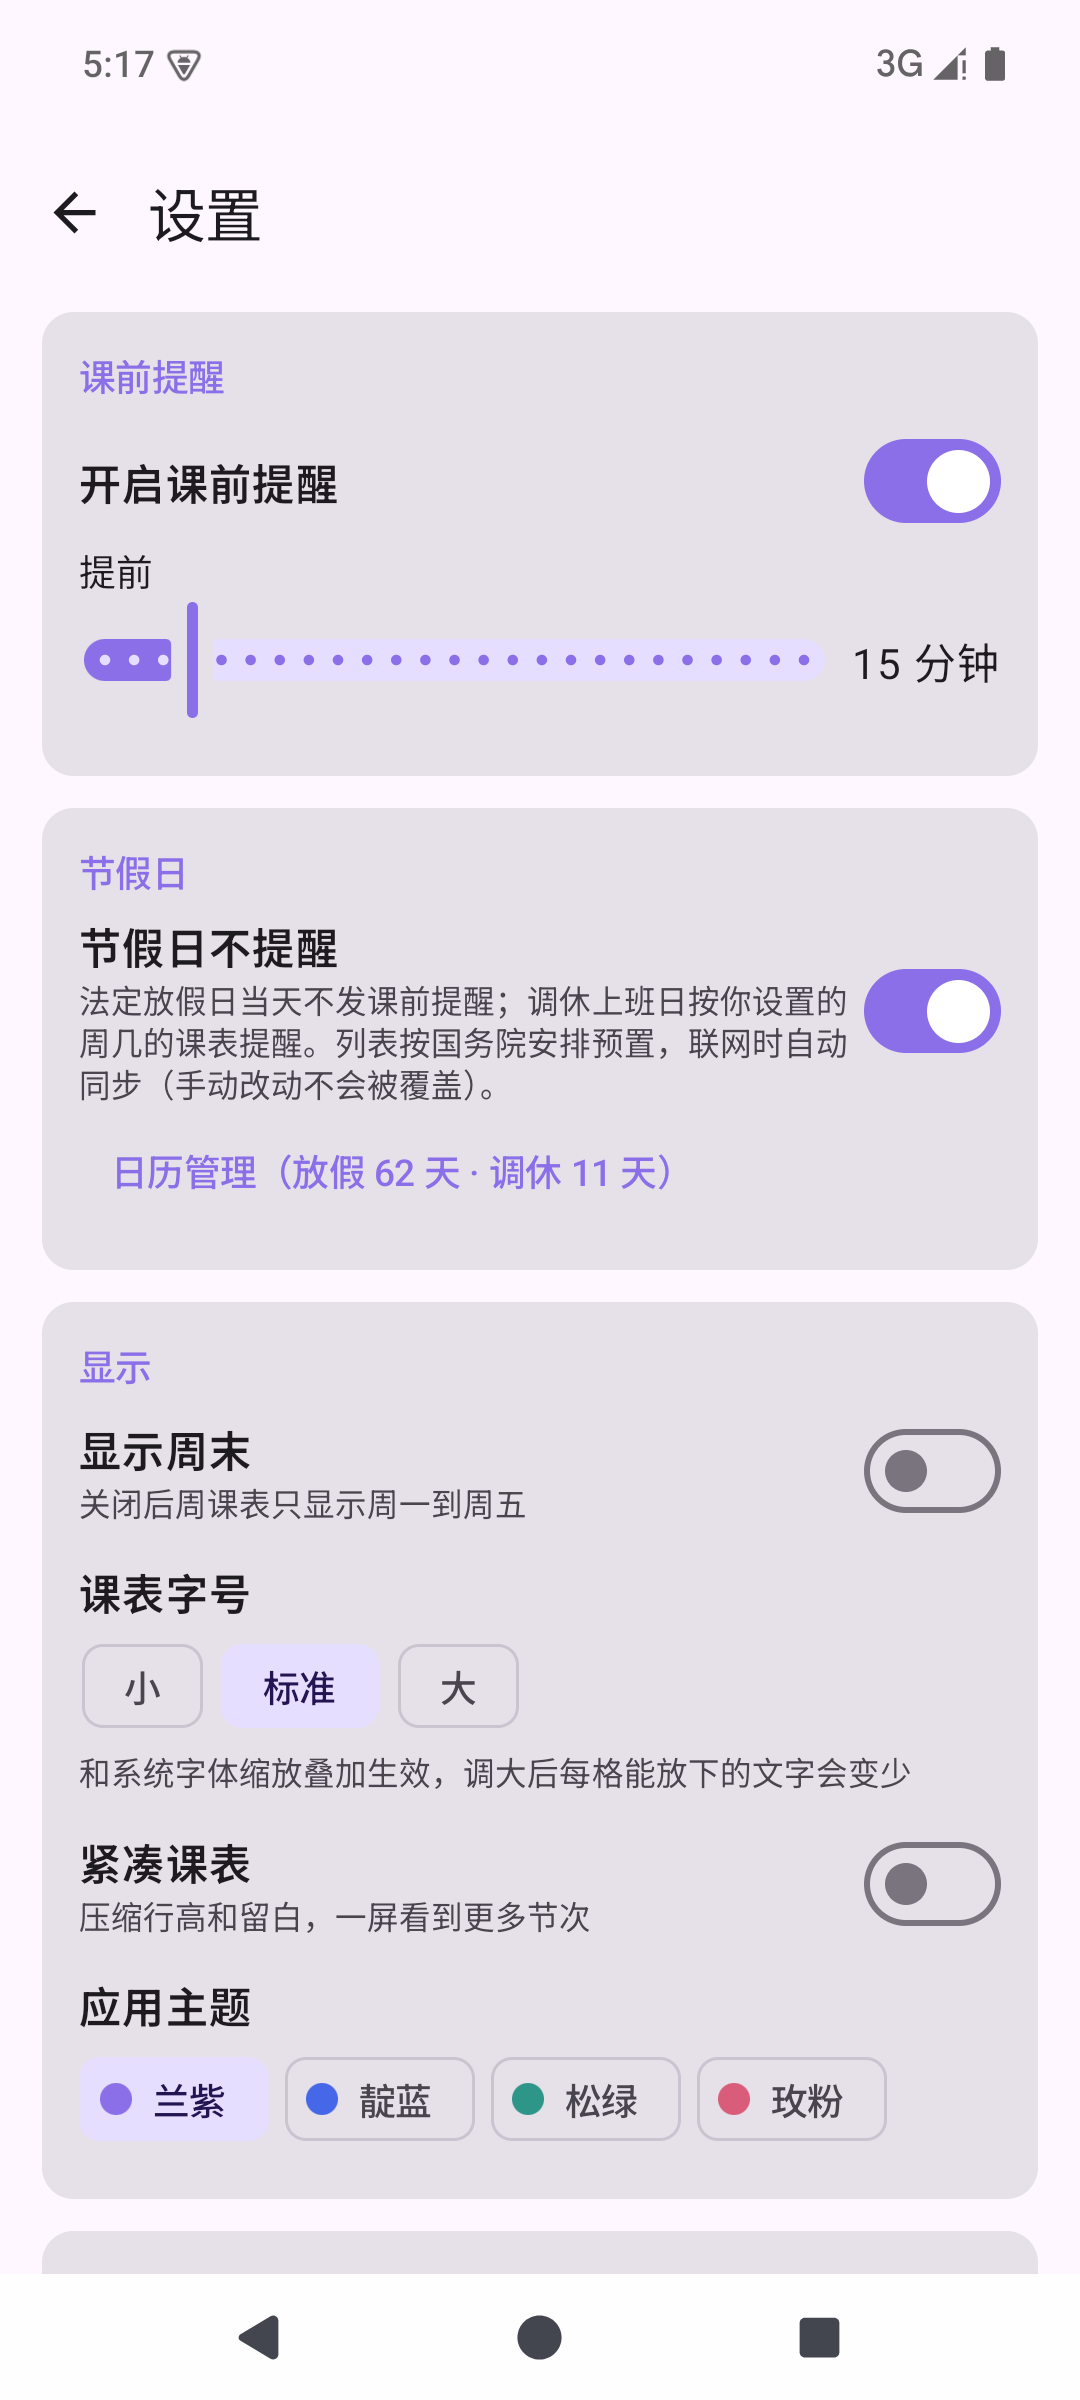
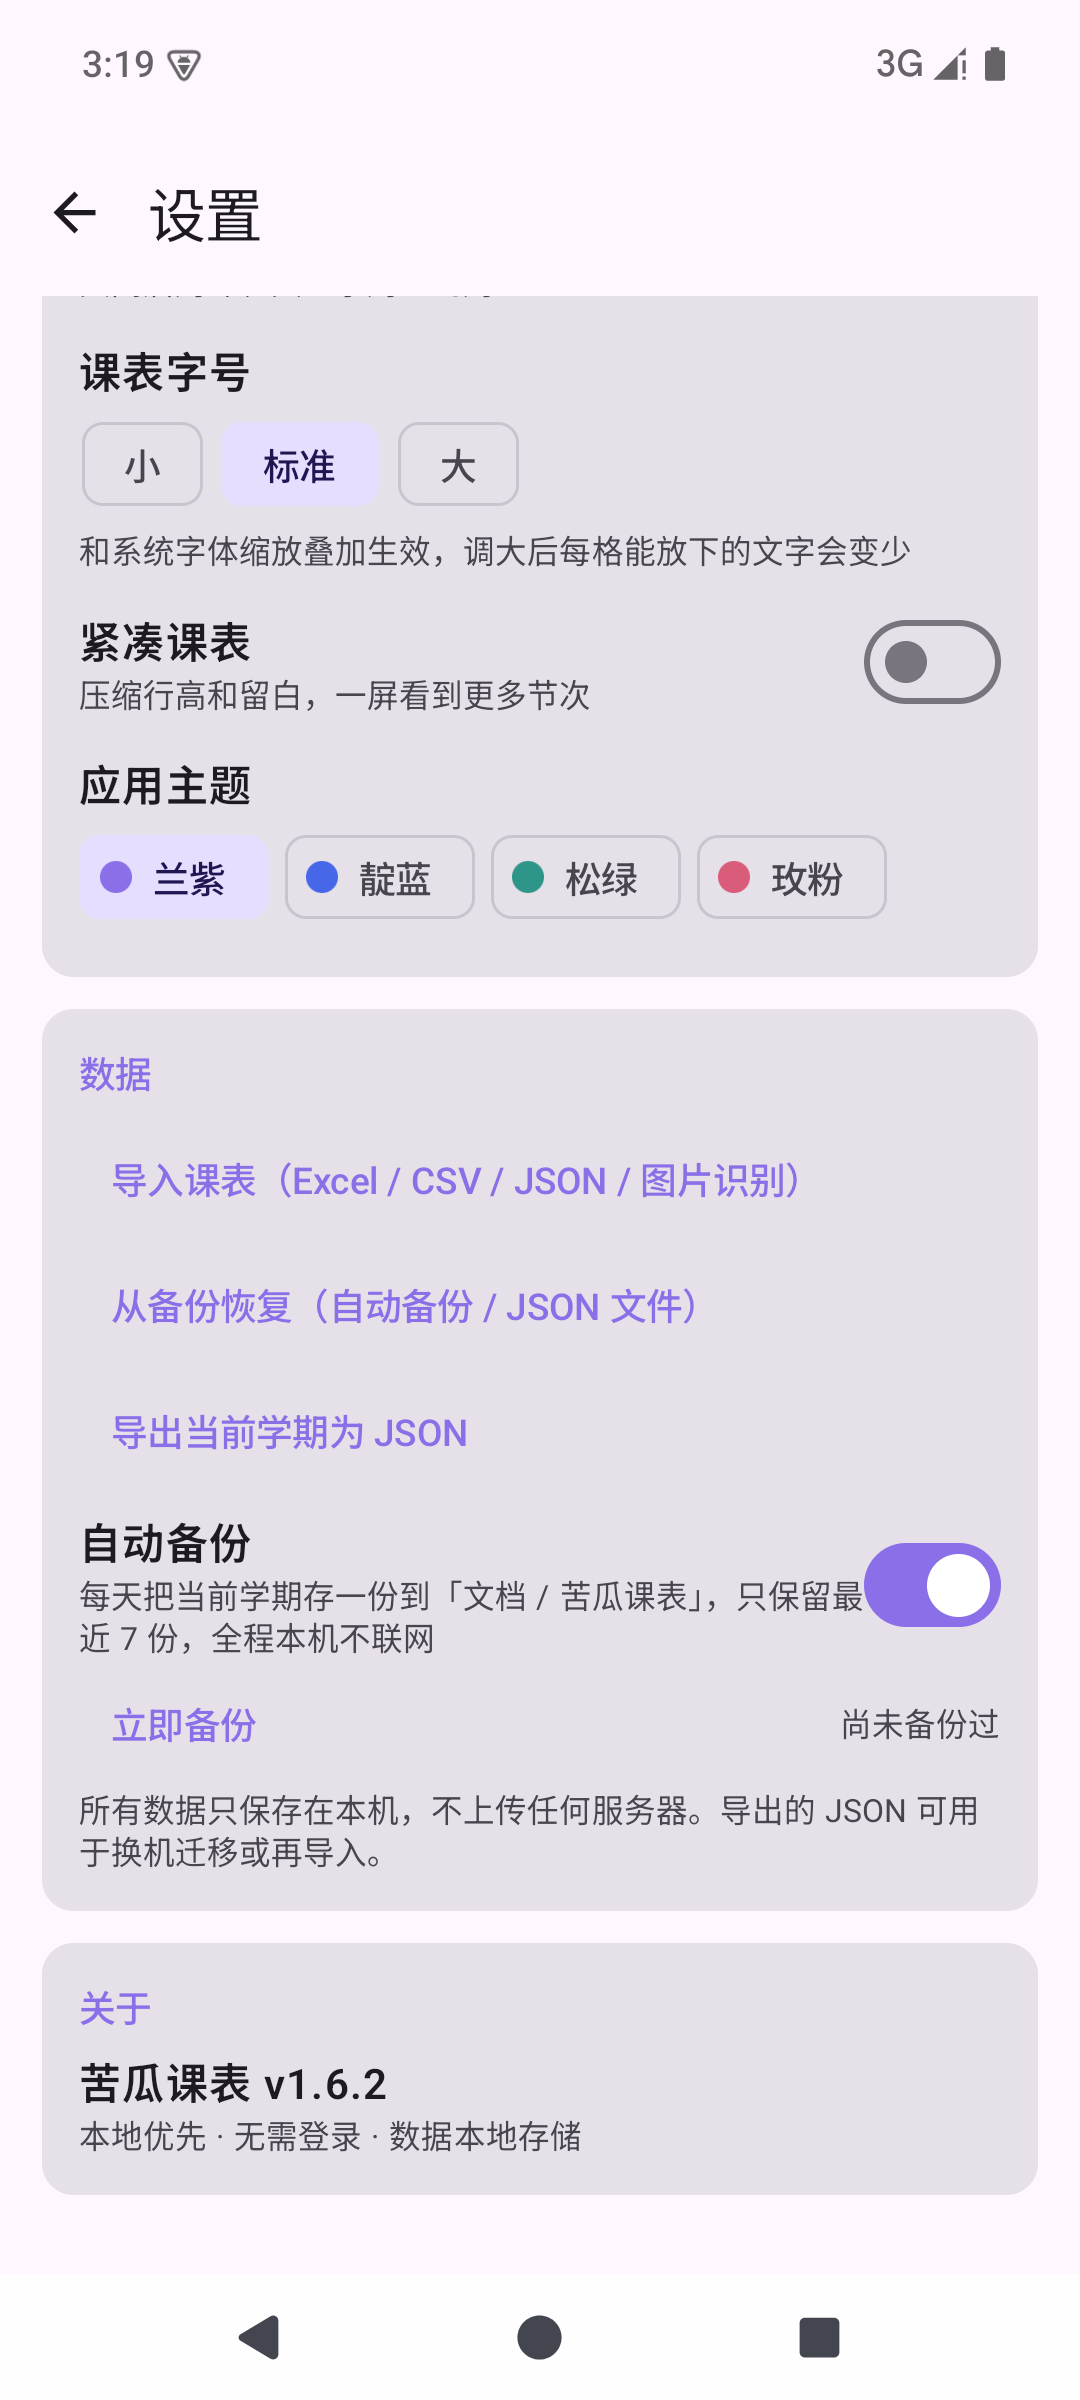
README 截图更新：新增今日视图（上课中高亮+倒计时）实拍，替换周课表/设置为 v1.6 界面实拍（含数据分区与从备份恢复入口）

diff --git a/README.zh-CN.md b/README.zh-CN.md
@@ -23,10 +23,10 @@
 
 <table align="center">
   <tr>
+    <td align="center"><img src="assets/screenshot-today.png" width="200" alt="今日视图" /><br /><sub><b>今日视图</b>（上课中高亮 + 倒计时）</sub></td>
     <td align="center"><img src="assets/screenshot-week-light.png" width="200" alt="周课表视图" /><br /><sub><b>周课表</b>（自动计算周次）</sub></td>
-    <td align="center"><img src="assets/screenshot-week-dark.png" width="200" alt="深色模式" /><br /><sub><b>深色模式</b>（跟随系统）</sub></td>
     <td align="center"><img src="assets/screenshot-course-editor.png" width="200" alt="课程编辑" /><br /><sub><b>课程编辑</b>（任意周次集合）</sub></td>
-    <td align="center"><img src="assets/screenshot-settings.png" width="200" alt="设置" /><br /><sub><b>设置</b>（提醒 / 节假日 / 主题）</sub></td>
+    <td align="center"><img src="assets/screenshot-settings.png" width="200" alt="设置" /><br /><sub><b>设置</b>（提醒 / 节假日 / 主题 / 备份恢复）</sub></td>
   </tr>
 </table>
 

diff --git a/README.md b/README.md
@@ -23,10 +23,10 @@
 
 <table align="center">
   <tr>
+    <td align="center"><img src="assets/screenshot-today.png" width="200" alt="Today view" /><br /><sub><b>Today view</b> (in-progress highlight + countdown)</sub></td>
     <td align="center"><img src="assets/screenshot-week-light.png" width="200" alt="Weekly timetable" /><br /><sub><b>Weekly grid</b> (auto week number)</sub></td>
-    <td align="center"><img src="assets/screenshot-week-dark.png" width="200" alt="Dark mode" /><br /><sub><b>Dark mode</b> (follows system)</sub></td>
     <td align="center"><img src="assets/screenshot-course-editor.png" width="200" alt="Course editor" /><br /><sub><b>Course editor</b> (arbitrary week sets)</sub></td>
-    <td align="center"><img src="assets/screenshot-settings.png" width="200" alt="Settings" /><br /><sub><b>Settings</b> (reminders / holidays / themes)</sub></td>
+    <td align="center"><img src="assets/screenshot-settings.png" width="200" alt="Settings" /><br /><sub><b>Settings</b> (reminders / holidays / themes / backup)</sub></td>
   </tr>
 </table>
 
